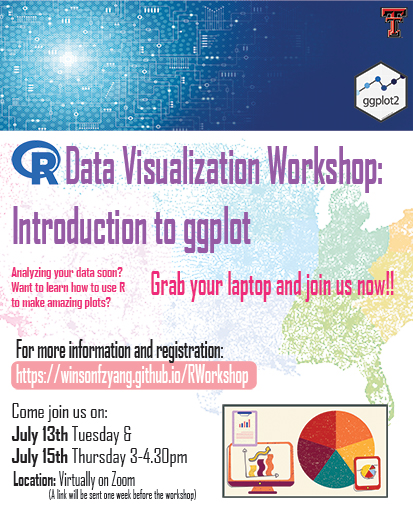
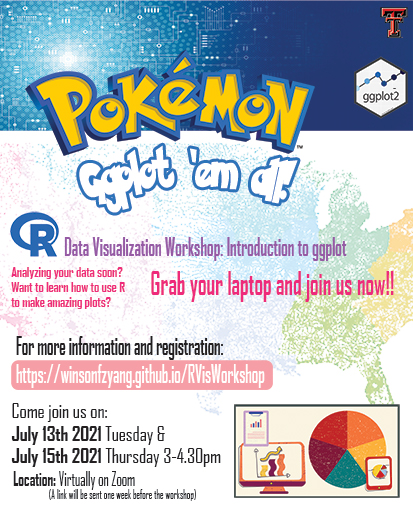
Add files via upload

Changed region(s): [[0.0, 0.0914, 0.9298, 0.5181], [0.0291, 0.64, 0.9879, 0.9448], [0.8426, 0.0914, 0.9879, 0.2438]]

diff --git a/index.md b/index.md
@@ -13,11 +13,13 @@ As I know everyone is busy with work, research, and classes, this workshop is no
 
 ## Workshop Information
 
-**Date:** 13th and 15th July (Tuesday & Thursday)  
+**Date:** 13th and 15th July 2021 (Tuesday & Thursday)  
 **Time:** 3.00 - 4.30pm  
 **Location:** Virtually, via [Zoom](https://zoom.us/) (link will be provided upon registration)
 
-
+Pre-requisites:
+* Basic understanding of R 
+(Don't worry if you don't have any experience in R. You will get hands-on practice via the step-by-step exercises)
 
 
 ## Sign-up and survey
